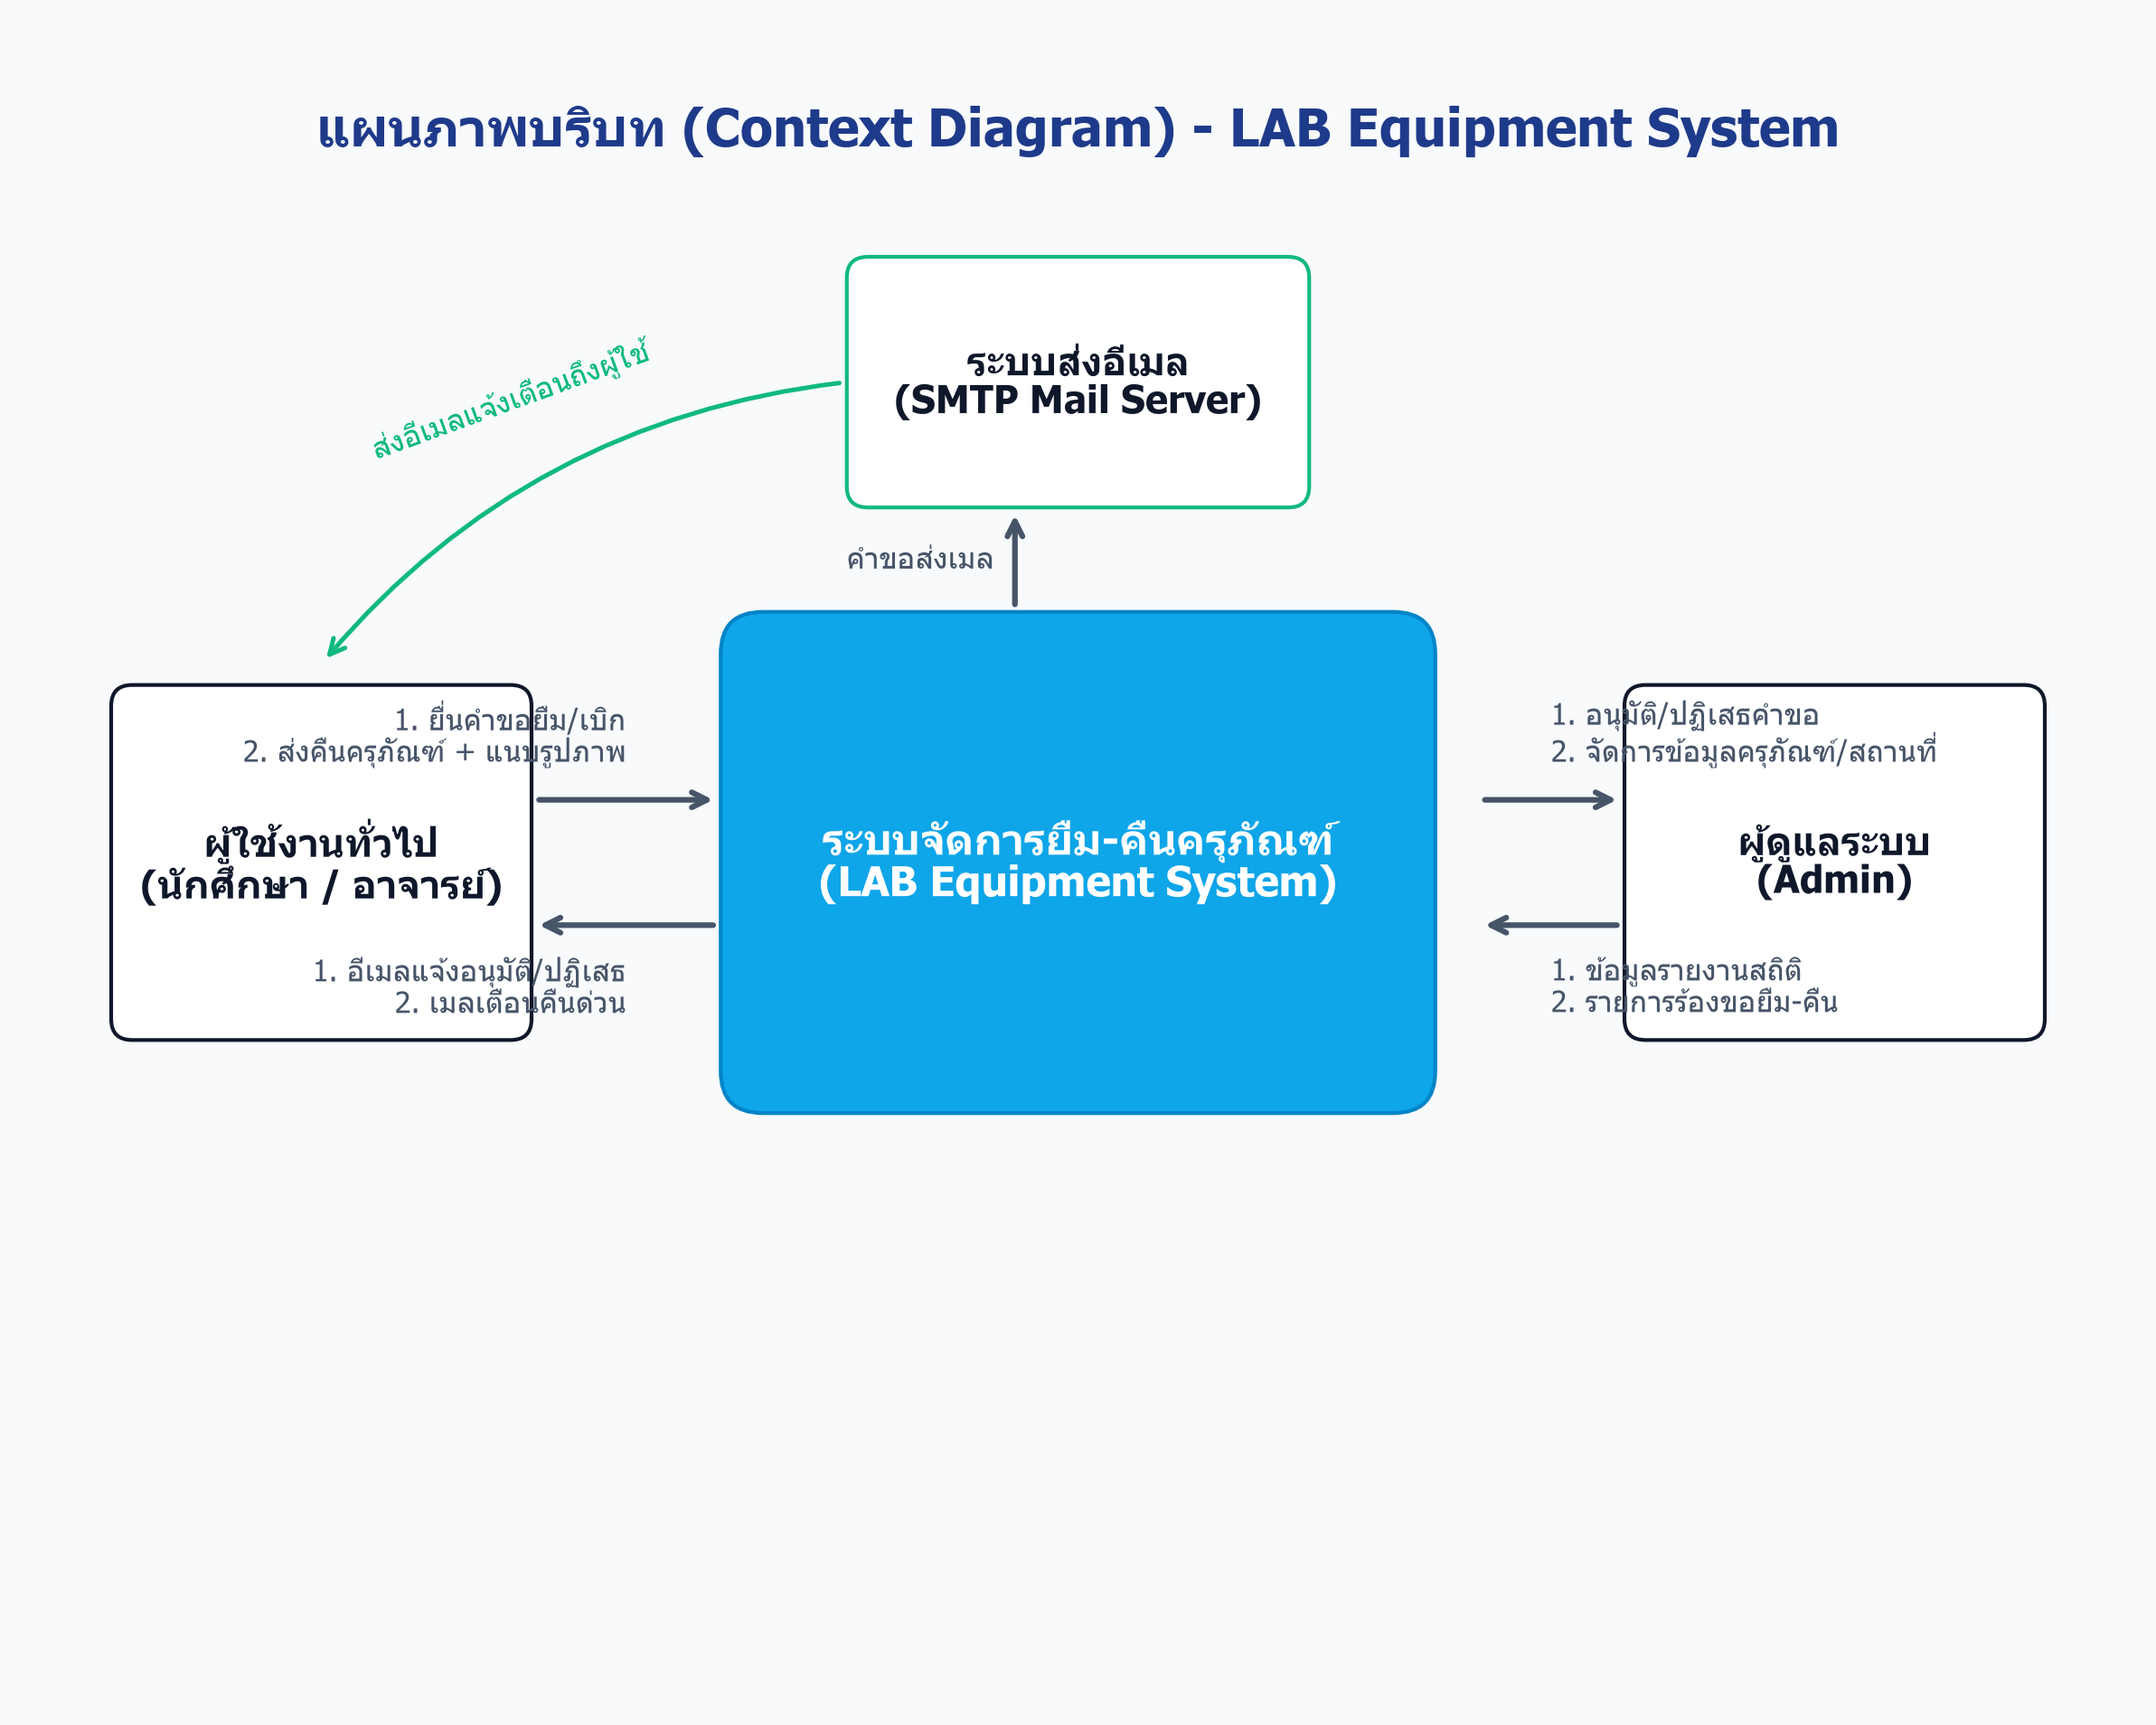
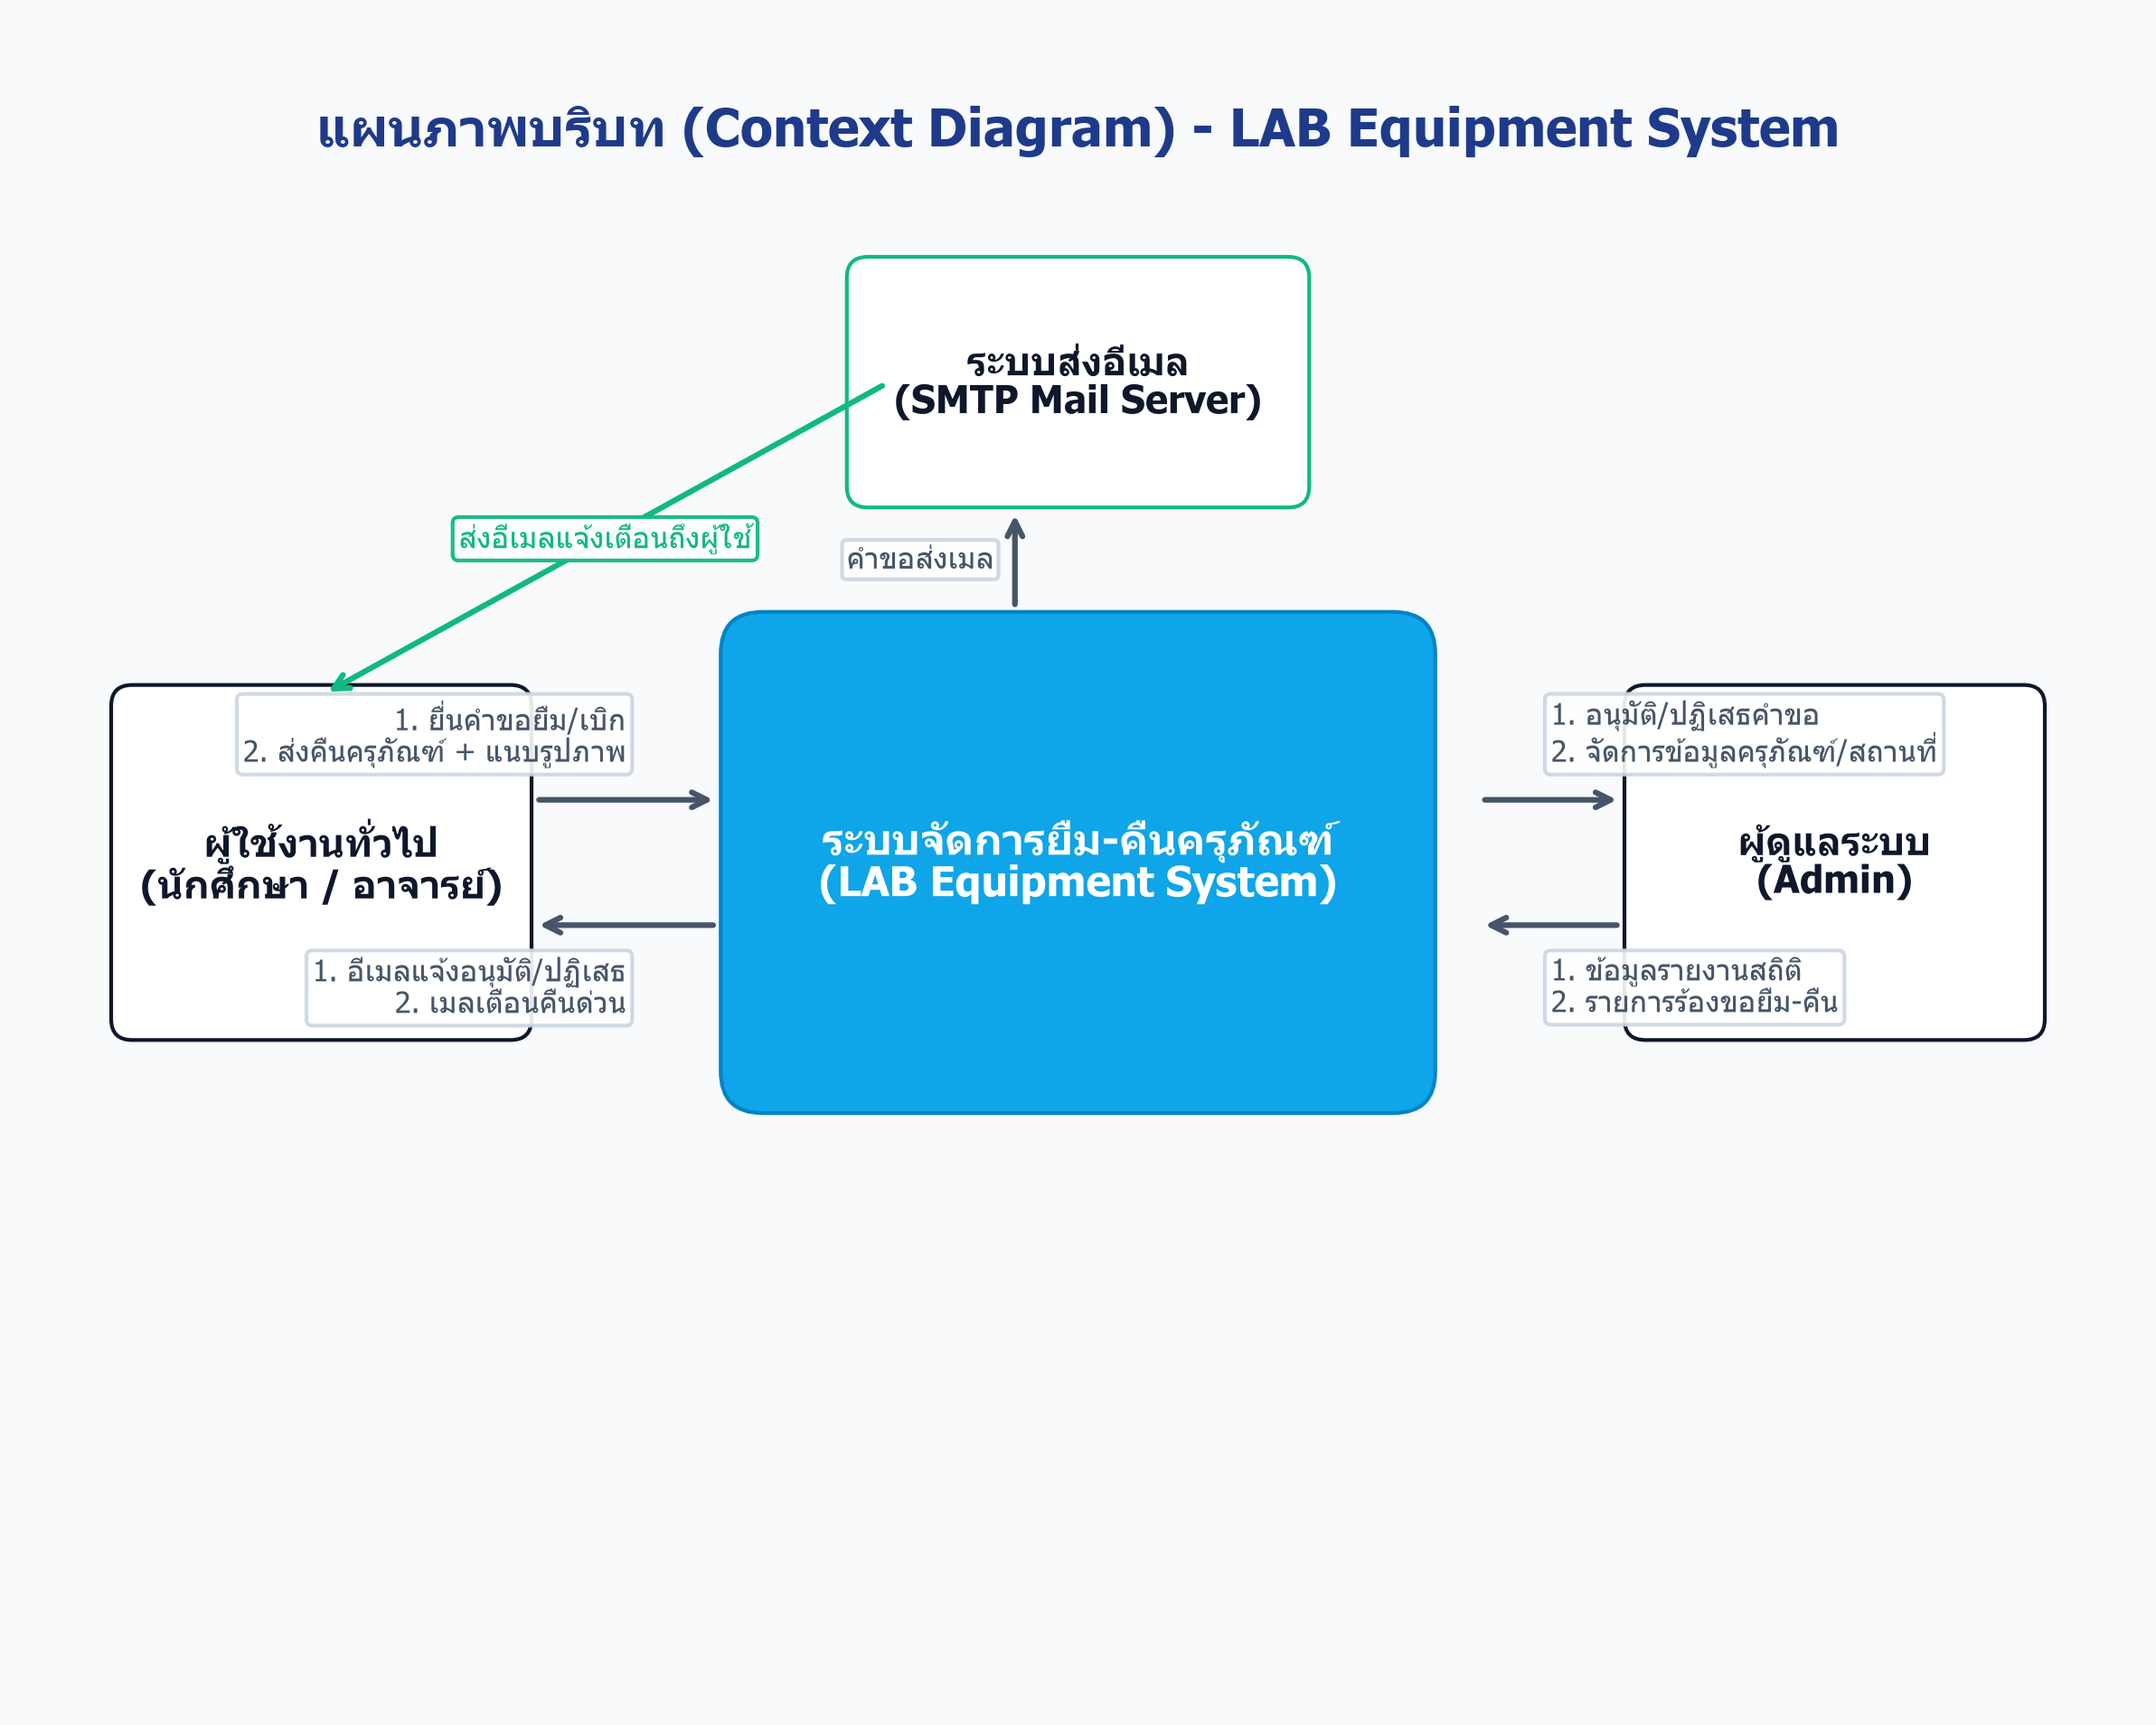
Enhance context diagram with boxed text labels and straight lines

diff --git a/scripts/draw_diagrams.py b/scripts/draw_diagrams.py
@@ -72,35 +72,41 @@ def draw_context_diagram():
     ax.annotate("", xy=(3.3, 4.3), xytext=(2.4, 4.3),
                 arrowprops=dict(arrowstyle="->", color=line_color, lw=1.5))
     ax.text(2.85, 4.45, "1. ยื่นคำขอยืม/เบิก\n2. ส่งคืนครุภัณฑ์ + แนบรูปภาพ", 
-            ha='right', va='bottom', fontsize=8, color='#475569')
+            ha='right', va='bottom', fontsize=8, color='#475569',
+            bbox=dict(facecolor='white', edgecolor='#cbd5e1', boxstyle='round,pad=0.2', alpha=0.9))
 
     # System -> User
     ax.annotate("", xy=(2.4, 3.7), xytext=(3.3, 3.7),
                 arrowprops=dict(arrowstyle="->", color=line_color, lw=1.5))
     ax.text(2.85, 3.55, "1. อีเมลแจ้งอนุมัติ/ปฏิเสธ\n2. เมลเตือนคืนด่วน", 
-            ha='right', va='top', fontsize=8, color='#475569')
+            ha='right', va='top', fontsize=8, color='#475569',
+            bbox=dict(facecolor='white', edgecolor='#cbd5e1', boxstyle='round,pad=0.2', alpha=0.9))
 
     # Admin -> System
     ax.annotate("", xy=(6.9, 4.3), xytext=(7.6, 4.3),
                 arrowprops=dict(arrowstyle="<-", color=line_color, lw=1.5))
     ax.text(7.25, 4.45, "1. อนุมัติ/ปฏิเสธคำขอ\n2. จัดการข้อมูลครุภัณฑ์/สถานที่", 
-            ha='left', va='bottom', fontsize=8, color='#475569')
+            ha='left', va='bottom', fontsize=8, color='#475569',
+            bbox=dict(facecolor='white', edgecolor='#cbd5e1', boxstyle='round,pad=0.2', alpha=0.9))
 
     # System -> Admin
     ax.annotate("", xy=(7.6, 3.7), xytext=(6.9, 3.7),
                 arrowprops=dict(arrowstyle="<-", color=line_color, lw=1.5))
     ax.text(7.25, 3.55, "1. ข้อมูลรายงานสถิติ\n2. รายการร้องขอยืม-คืน", 
-            ha='left', va='top', fontsize=8, color='#475569')
+            ha='left', va='top', fontsize=8, color='#475569',
+            bbox=dict(facecolor='white', edgecolor='#cbd5e1', boxstyle='round,pad=0.2', alpha=0.9))
 
     # System -> SMTP Server
     ax.annotate("", xy=(4.7, 5.7), xytext=(4.7, 5.2),
                 arrowprops=dict(arrowstyle="->", color=line_color, lw=1.5))
-    ax.text(4.6, 5.45, "คำขอส่งเมล", ha='right', va='center', fontsize=8, color='#475569')
+    ax.text(4.6, 5.45, "คำขอส่งเมล", ha='right', va='center', fontsize=8, color='#475569',
+            bbox=dict(facecolor='white', edgecolor='#cbd5e1', boxstyle='round,pad=0.15', alpha=0.9))
 
-    # SMTP Server -> User
-    ax.annotate("", xy=(1.4, 4.95), xytext=(3.9, 6.3),
-                arrowprops=dict(arrowstyle="->", color='#10b981', lw=1.2, connectionstyle="arc3,rad=0.2"))
-    ax.text(2.3, 5.9, "ส่งอีเมลแจ้งเตือนถึงผู้ใช้", ha='center', va='bottom', fontsize=8, color='#10b981', rotation=20)
+    # SMTP Server -> User (Straight Green Line with Boxed Text)
+    ax.annotate("", xy=(1.4, 4.8), xytext=(4.1, 6.3),
+                arrowprops=dict(arrowstyle="->", color='#10b981', lw=1.5))
+    ax.text(2.75, 5.55, "ส่งอีเมลแจ้งเตือนถึงผู้ใช้", ha='center', va='center', fontsize=8, color='#10b981',
+            bbox=dict(facecolor='white', edgecolor='#10b981', boxstyle='round,pad=0.2', alpha=0.95))
 
     save_fig(fig, "context_diagram.png")
     plt.close(fig)
